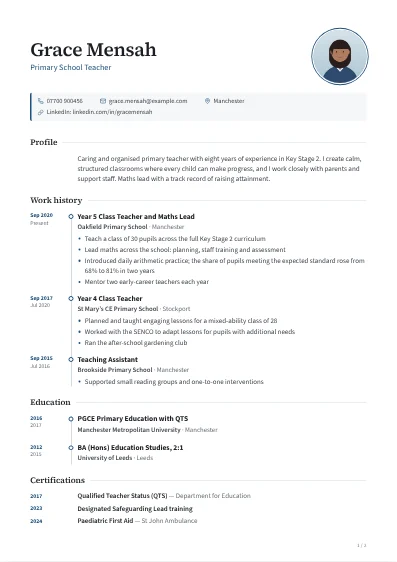
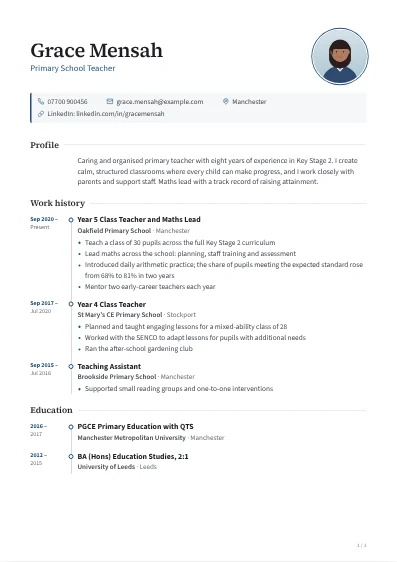
fix: template review — PDF reading order, clickable links, larger text, full-width continuation pages
Claude-Session: https://claude.ai/code/session_01L77Rmev6oLepa9gLETUpxP

diff --git a/src/modules/templates/paginate/runtime-source.ts b/src/modules/templates/paginate/runtime-source.ts
@@ -11,20 +11,25 @@
  * planPages(blocks, capacity) → { pages: number[][], overflow: number[] }
  * blocks: [{ height, keep: 'none' | 'with-next' | 'together' }]; capacity(pageIndex) → px.
  */
-export const PLAN_PAGES_JS = String.raw`function planPages(blocks, capacity) {
+export const PLAN_PAGES_JS = String.raw`function planPages(blocks, capacity, wideFrom) {
   var EPS = 0.5;
   var pages = [[]];
   var overflow = [];
   var used = 0;
   var i = 0;
+  // Pages from wideFrom on are full width (no side column): blocks may be shorter there.
+  function h(k, p) {
+    var b = blocks[k];
+    return wideFrom !== undefined && p >= wideFrom && b.wide != null ? b.wide : b.height;
+  }
   while (i < blocks.length) {
+    var page = pages.length - 1;
     var j = i;
-    var groupHeight = blocks[i].height;
+    var groupHeight = h(i, page);
     while (blocks[j].keep === 'with-next' && j + 1 < blocks.length) {
       j++;
-      groupHeight += blocks[j].height;
+      groupHeight += h(j, page);
     }
-    var page = pages.length - 1;
     var cap = capacity(page);
     var k;
     if (used + groupHeight <= cap + EPS) {
@@ -33,24 +38,24 @@ export const PLAN_PAGES_JS = String.raw`function planPages(blocks, capacity) {
       i = j + 1;
     } else if (pages[page].length === 0) {
       for (k = i; k <= j; k++) {
-        var h = blocks[k].height;
-        // A keep-with-next block (a heading) only goes where its successor fits too.
         var last = pages.length - 1;
-        var need = h;
-        if (blocks[k].keep === 'with-next' && k + 1 <= j && h + blocks[k + 1].height <= capacity(last + 1) + EPS) {
-          need = h + blocks[k + 1].height;
+        var hk = h(k, last);
+        var need = hk;
+        if (blocks[k].keep === 'with-next' && k + 1 <= j && h(k, last + 1) + h(k + 1, last + 1) <= capacity(last + 1) + EPS) {
+          need = hk + h(k + 1, last);
         }
         if (pages[last].length > 0 && used + need > capacity(last) + EPS) {
           pages.push([]);
           used = 0;
         } else if (pages[last].length === 0 && need > capacity(last) + EPS && need <= capacity(last + 1) + EPS) {
-          // Fits on a fuller page (e.g. page 1 is shorter because of the header): leave this one.
           pages.push([]);
           used = 0;
         }
-        if (h > capacity(pages.length - 1) + EPS) overflow.push(k);
-        pages[pages.length - 1].push(k);
-        used += h;
+        last = pages.length - 1;
+        hk = h(k, last);
+        if (hk > capacity(last) + EPS) overflow.push(k);
+        pages[last].push(k);
+        used += hk;
       }
       i = j + 1;
     } else {
@@ -145,15 +150,38 @@ export const RUNTIME_JS = String.raw`(function (planPages) {
     var capAside1 = p1.aside ? p1.aside.clientHeight : 0;
     var capAsideN = p2.aside ? p2.aside.clientHeight : 0;
 
-    var mainPlan = planPages(measureFlow(mainBlocks, p2.main), function (p) { return p === 0 ? capMain1 : capMainN; });
+    // Side column first: it decides from which page on the main column can use the full width.
     var asidePlan = hasAside
       ? planPages(measureFlow(asideBlocks, p2.aside), function (p) { return p === 0 ? capAside1 : capAsideN; })
       : { pages: [[]], overflow: [] };
+    var wideFrom;
+    var capMainWide = capMainN;
+    var mainMeasure;
+    if (hasAside) {
+      wideFrom = asidePlan.pages.length;
+      var p3 = makePage(false, false);
+      p3.page.className += ' cv-page--wide';
+      if (running) p3.top.appendChild(running.cloneNode(true));
+      measure.appendChild(p3.page);
+      capMainWide = p3.main.clientHeight;
+      var wide = measureFlow(mainBlocks, p3.main);
+      mainMeasure = measureFlow(mainBlocks, p2.main);
+      for (var q = 0; q < mainMeasure.length; q++) mainMeasure[q].wide = wide[q].height;
+    } else {
+      mainMeasure = measureFlow(mainBlocks, p2.main);
+    }
+    var mainPlan = planPages(
+      mainMeasure,
+      function (p) { return p === 0 ? capMain1 : wideFrom !== undefined && p >= wideFrom ? capMainWide : capMainN; },
+      wideFrom
+    );
 
     var total = Math.max(mainPlan.pages.length, asidePlan.pages.length);
     target.removeChild(measure);
     for (var p = 0; p < total; p++) {
-      var pg = makePage(p === 0, hasAside);
+      var isWide = hasAside && p > 0 && p >= wideFrom;
+      var pg = makePage(p === 0, hasAside && !isWide);
+      if (isWide) pg.page.className += ' cv-page--wide';
       if (p === 0 && header) pg.top.appendChild(header);
       else if (p > 0 && running) pg.top.appendChild(running.cloneNode(true));
       var mi = mainPlan.pages[p] || [];
@@ -187,6 +215,7 @@ export const RUNTIME_JS = String.raw`(function (planPages) {
 
   document.addEventListener('click', function (ev) {
     var t = ev.target;
+    if (t && t.closest && t.closest('a')) ev.preventDefault();
     var ref = t && t.closest ? t.closest('[data-ref]') : null;
     if (ref && window.parent !== window) {
       window.parent.postMessage({ type: 'cv:select', ref: ref.getAttribute('data-ref') }, '*');

diff --git a/e2e/templates.spec.ts b/e2e/templates.spec.ts
@@ -89,7 +89,7 @@ test.describe('template engine parity (desktop only)', () => {
 
 test('Designs page renders all three templates with real content', async ({ page }) => {
   await page.goto('/templates');
-  const frames = page.locator('iframe[title*="design with an example"]:not([aria-hidden])');
+  const frames = page.locator('iframe[title*="design with an example"][data-active]');
   await expect(frames).toHaveCount(TEMPLATE_IDS.length);
   for (let i = 0; i < TEMPLATE_IDS.length; i++) {
     await expect(frames.nth(i).contentFrame().locator('html[data-cv-ready]')).toHaveCount(1);
@@ -113,4 +113,28 @@ test('health endpoint reports Chromium', async ({ request }) => {
   const res = await request.get('/api/health');
   expect(res.status()).toBe(200);
   expect((await res.json()).checks.chromium).toBe('ok');
+});
+
+test.describe('PDF text order and links (desktop only)', () => {
+  test.skip(({ isMobile }) => isMobile || !hasPoppler, 'Needs poppler; runs once');
+  for (const templateId of TEMPLATE_IDS) {
+    test(`${templateId}: bullets extract directly under their job, contacts are links`, async ({
+      request,
+    }) => {
+      const doc = structuredClone(FIXTURES.driver);
+      doc.design = { ...doc.design, templateId: templateId as never };
+      const res = await request.post('/api/pdf', { data: { document: doc } });
+      const pdf = Buffer.from(await res.body());
+      const raw = pdfTool('pdftotext', pdf, ['-raw']).replace(/\s+/g, ' ');
+      const firstBullet = raw.indexOf('Deliver around 120 parcels');
+      const secondJob = raw.indexOf('Courier Driver');
+      const education = raw.indexOf('GCSEs including English');
+      expect(firstBullet, 'first bullet present').toBeGreaterThan(-1);
+      expect(firstBullet, 'bullet comes before the next job').toBeLessThan(secondJob);
+      expect(secondJob, 'work history comes before education').toBeLessThan(education);
+      const body = pdf.toString('latin1');
+      expect(body).toMatch(/\/URI\s*\(mailto:imran\.qureshi@example\.com\)/);
+      expect(body).toMatch(/\/URI\s*\(tel:07700900123\)/);
+    });
+  }
 });

diff --git a/src/modules/templates/library/halo.tsx b/src/modules/templates/library/halo.tsx
@@ -73,14 +73,14 @@ function Header({ model }: TemplateComponentProps) {
 const css = `
 :root{--aside-w:31%;--gutter:8mm}
 .ha-header{display:flex;flex-direction:column;align-items:center;text-align:center;padding-bottom:2mm}
-.ha-portrait{width:30mm;height:30mm;border-radius:50%;margin-bottom:4.5mm;box-shadow:0 0 0 2.6pt #fff,0 0 0 3.5pt var(--accent),0 0 0 6pt #fff,0 0 0 6.6pt var(--accent-line)}
+.ha-portrait{width:25mm;height:25mm;border-radius:50%;margin-bottom:3.5mm;box-shadow:0 0 0 2.6pt #fff,0 0 0 3.5pt var(--accent),0 0 0 6pt #fff,0 0 0 6.6pt var(--accent-line)}
 .cv-portrait--initials.ha-portrait{background:var(--accent-soft);color:var(--accent);font-family:var(--font-heading);font-weight:var(--heading-weight);font-size:24pt;letter-spacing:.04em}
 .ha-name{font-family:var(--font-heading);font-weight:var(--heading-weight);font-size:2.7em;line-height:1.08;letter-spacing:.005em;color:var(--ink)}
 .ha-headline{margin-top:.5em;font-size:.86em;font-weight:700;letter-spacing:.24em;text-transform:uppercase;color:var(--accent)}
-.ha-header .cv-contacts-wrap{margin-top:4mm}
-.ha-header .cv-contacts{justify-content:center;margin-left:0;column-gap:1.4em;row-gap:.3em;font-size:.92em;color:var(--ink-2)}
+.ha-header .cv-contacts-wrap{margin-top:3mm}
+.ha-header .cv-contacts{justify-content:center;margin-left:0;column-gap:1.4em;row-gap:.3em;font-size:.96em;color:var(--ink-2)}
 .ha-header .cv-contact{padding-left:0}
-.ha-ornament{display:flex;justify-content:center;align-items:center;gap:6pt;margin-top:5mm;width:100%}
+.ha-ornament{display:flex;justify-content:center;align-items:center;gap:6pt;margin-top:3.5mm;width:100%}
 .ha-ornament::before,.ha-ornament::after{content:'';flex:1;height:.6pt;background:var(--accent-line)}
 .ha-ornament span{width:5pt;height:5pt;transform:rotate(45deg);background:var(--accent)}
 .cv-top--running{padding-bottom:3mm}

diff --git a/src/modules/templates/render-model.ts b/src/modules/templates/render-model.ts
@@ -10,6 +10,8 @@ export type Contact = {
   kind: 'phone' | 'email' | 'location' | 'link';
   text: string;
   label?: string;
+  /** Link target for PDFs (tel:, mailto:, https:). */
+  href?: string;
 };
 
 export type REntry = {
@@ -128,18 +130,36 @@ function entriesOf(section: Section, locale: string): REntry[] {
   }
 }
 
+/** Only http(s) links are made clickable; anything else stays plain text. */
+function toHref(url: string): string | undefined {
+  const u = clean(url);
+  const withScheme = /^[a-z][a-z0-9+.-]*:/i.test(u) ? u : `https://${u}`;
+  return /^https?:\/\/[^\s]+\.[^\s]+/i.test(withScheme) ? withScheme : undefined;
+}
+
 const hasContent = (e: REntry) =>
   Boolean(e.title || e.subtitle || e.bullets.length || e.tags.length || e.label);
 
 export function toRenderModel(doc: ResumeDocument): RenderModel {
   const b = doc.basics;
   const contacts: Contact[] = [];
-  if (clean(b.phone)) contacts.push({ kind: 'phone', text: clean(b.phone) });
-  if (clean(b.email)) contacts.push({ kind: 'email', text: clean(b.email) });
+  if (clean(b.phone))
+    contacts.push({
+      kind: 'phone',
+      text: clean(b.phone),
+      href: `tel:${clean(b.phone).replace(/[^\d+]/g, '')}`,
+    });
+  if (clean(b.email))
+    contacts.push({ kind: 'email', text: clean(b.email), href: `mailto:${clean(b.email)}` });
   if (clean(b.location)) contacts.push({ kind: 'location', text: clean(b.location) });
   for (const l of b.links)
     if (clean(l.url))
-      contacts.push({ kind: 'link', text: displayUrl(l.url), label: clean(l.label) });
+      contacts.push({
+        kind: 'link',
+        text: displayUrl(l.url),
+        label: clean(l.label),
+        href: toHref(l.url),
+      });
 
   const sections: RSection[] = [];
   if (clean(b.summary))

diff --git a/src/modules/templates/library/meridian.tsx b/src/modules/templates/library/meridian.tsx
@@ -76,12 +76,13 @@ function Header({ model }: TemplateComponentProps) {
 const css = `
 :root{--aside-w:31%;--gutter:7mm}
 .cv-top--header{margin:calc(-1 * var(--margin)) calc(-1 * var(--margin)) 0;position:relative;z-index:1}
-.m-header{position:relative;display:flex;align-items:center;justify-content:space-between;gap:8mm;background:linear-gradient(100deg,var(--accent-deep),var(--accent));color:#fff;padding:calc(var(--margin) * 0.95) var(--margin) calc(var(--margin) * 0.75 + 6mm);clip-path:polygon(0 0,100% 0,100% calc(100% - 6mm),0 100%)}
+.m-header{position:relative;display:flex;align-items:center;justify-content:space-between;gap:8mm;background:linear-gradient(100deg,var(--accent-deep),var(--accent));color:#fff;padding:calc(var(--margin) * 0.8) var(--margin) calc(var(--margin) * 0.6 + 5mm);clip-path:polygon(0 0,100% 0,100% calc(100% - 5mm),0 100%)}
+.cv-page--wide::before{display:none}
 .m-id{min-width:0;flex:1}
-.m-portrait{width:29mm;height:29mm;border-radius:50%;border:2.4pt solid rgba(255,255,255,.9)}
+.m-portrait{width:26mm;height:26mm;border-radius:50%;border:2.4pt solid rgba(255,255,255,.9)}
 .m-name{font-family:var(--font-heading);font-weight:var(--heading-weight);font-size:2.6em;line-height:1.06;letter-spacing:-.01em}
 .m-headline{margin-top:.28em;font-size:1.16em;font-weight:500;opacity:.92}
-.m-header .cv-contacts{margin-top:.8em;font-size:.92em;color:rgba(255,255,255,.9)}
+.m-header .cv-contacts{margin-top:.7em;font-size:.97em;color:rgba(255,255,255,.9)}
 .m-header .cv-sep{color:rgba(255,255,255,.45)}
 .m-header .cv-contacts-wrap{overflow:hidden}
 .cv-top--running{padding-bottom:4pt}

diff --git a/src/modules/templates/library/atelier.tsx b/src/modules/templates/library/atelier.tsx
@@ -74,15 +74,17 @@ function Header({ model }: TemplateComponentProps) {
 }
 
 const css = `
-:root{--side-w:56mm;--side-pad:7mm;--gap:9mm}
+:root{--side-w:50mm;--side-pad:6mm;--gap:8mm}
+.cv-page--wide::before{display:none}
+.cv-page--wide .a-running{margin-left:0}
 .cv-page::before{content:'';position:absolute;top:0;bottom:0;left:0;width:calc(var(--margin) + var(--side-w) + var(--side-pad));background:var(--accent-deep)}
 .cv-body{flex-direction:row-reverse}
-.cv-aside{width:var(--side-w);color:#fff;font-size:.93em}
+.cv-aside{width:var(--side-w);color:#fff;font-size:.95em}
 .cv-main{padding-left:calc(var(--side-pad) + var(--gap))}
-.a-header{display:flex;align-items:center;padding-bottom:9mm}
+.a-header{display:flex;align-items:center;padding-bottom:5mm}
 .a-header-side{width:calc(var(--side-w) + var(--side-pad));padding-right:var(--side-pad);display:flex;justify-content:center;flex:none}
 .a-header-main{padding-left:var(--gap);min-width:0;flex:1}
-.a-portrait{width:40mm;height:40mm;border-radius:50%;box-shadow:0 0 0 2.2pt var(--accent-deep),0 0 0 3.4pt rgba(255,255,255,.55)}
+.a-portrait{width:34mm;height:34mm;border-radius:50%;box-shadow:0 0 0 2.2pt var(--accent-deep),0 0 0 3.4pt rgba(255,255,255,.55)}
 .cv-portrait--initials.a-portrait{background:rgba(255,255,255,.1);color:#fff;font-family:var(--font-heading);font-weight:var(--heading-weight);font-size:30pt;letter-spacing:.02em}
 .a-name{font-family:var(--font-heading);font-weight:var(--heading-weight);font-size:2.95em;line-height:1.02;letter-spacing:-.015em;color:var(--ink)}
 .a-name span{display:block}

diff --git a/src/modules/resume/fixtures.ts b/src/modules/resume/fixtures.ts
@@ -473,12 +473,26 @@ export const graduate = build(
   ],
 );
 
-const eng = (n: number) => [
-  `Designed and led delivery of a service handling ${n} million requests a day with 99.95% availability`,
-  'Mentored engineers through code review, pairing and design reviews',
-  'Introduced contract tests between services, cutting integration incidents',
-  'Worked with product and support teams to prioritise reliability work',
-];
+const eng = (n: number) =>
+  ({
+    40: [
+      'Designed and led delivery of a payments service handling 40 million requests a day with 99.95% availability',
+      'Mentored eight engineers through code review, pairing and design reviews',
+      'Introduced contract tests between services, cutting integration incidents by half',
+      'Set up on-call and incident reviews with product and support teams',
+    ],
+    12: [
+      'Owned the dispatch API handling 12 million requests a day',
+      'Reduced p95 latency from 900 ms to 180 ms by redesigning caching and queries',
+      'Ran the hiring loop for backend engineers and onboarded six new starters',
+      'Worked with operations to prioritise reliability work over new features during peak season',
+    ],
+    2: [
+      'Built the reconciliation service that matched 2 million ledger entries a day',
+      'Replaced nightly batch jobs with event-driven processing, cutting delays from hours to minutes',
+      'Wrote the team’s first testing guidelines and raised coverage on core modules',
+    ],
+  })[n] ?? [];
 
 export const engineer = build(
   'engineer',

diff --git a/src/modules/templates/library/heritage.tsx b/src/modules/templates/library/heritage.tsx
@@ -73,7 +73,7 @@ const css = `
 .h-headline{margin-top:.45em;font-size:.88em;letter-spacing:.24em;text-transform:uppercase;color:var(--accent);font-weight:600}
 .h-header .cv-contact:first-child{padding-left:0}
 .h-header .cv-contact:first-child .cv-sep{display:none}
-.h-header .cv-contacts{justify-content:center;margin-left:0;margin-top:.9em;font-size:.92em;color:var(--ink-2)}
+.h-header .cv-contacts{justify-content:center;margin-left:0;margin-top:.9em;font-size:.97em;color:var(--ink-2)}
 .h-header .cv-sep{color:var(--accent-line)}
 .cv-top--running{padding-bottom:4pt}
 .h-running{text-align:center;font-family:var(--font-heading);font-weight:var(--heading-weight);font-size:1.1em;letter-spacing:.04em;color:var(--ink-2);border-bottom:.5pt solid var(--accent-line);padding-bottom:4pt}
@@ -93,10 +93,10 @@ const css = `
 .cv-bullets{color:var(--ink-2)}
 .cv-bullets li+li{margin-top:2pt}
 .cv-bullets li::before{border-radius:0;transform:rotate(45deg);width:.28em;height:.28em}
-.h-summary{color:var(--ink-2);text-align:center;padding:0 4%;font-size:1.03em}
+.h-summary{color:var(--ink-2);font-size:1.03em}
 .h-strong{font-weight:600;color:var(--ink)}
 .h-muted{color:var(--ink-3)}
-.h-skills{color:var(--ink-2);text-align:center}
+.h-skills{color:var(--ink-2);text-align:center;text-wrap:balance}
 `;
 
 export const heritage: TemplateDefinition = {

diff --git a/src/features/preview/document-preview.tsx b/src/features/preview/document-preview.tsx
@@ -20,6 +20,8 @@ type Props = {
   onSelect?: (ref: string) => void;
   className?: string;
   title?: string;
+  /** Illustration only (gallery, thumbnails): hidden from assistive tech and not focusable. */
+  decorative?: boolean;
 };
 
 const GAP = 24;
@@ -37,6 +39,7 @@ export function DocumentPreview({
   onSelect,
   className,
   title = 'CV preview',
+  decorative = false,
 }: Props) {
   const wrapRef = useRef<HTMLDivElement>(null);
   const frames = useRef<(HTMLIFrameElement | null)[]>([null, null]);
@@ -127,8 +130,10 @@ export function DocumentPreview({
                 frames.current[i] = el;
               }}
               title={i === active ? title : `${title} (updating)`}
-              aria-hidden={i === active ? undefined : true}
-              tabIndex={i === active ? 0 : -1}
+              aria-hidden={i === active && !decorative ? undefined : true}
+              tabIndex={i === active && !decorative ? 0 : -1}
+              inert={decorative || i !== active ? true : undefined}
+              data-active={i === active ? '' : undefined}
               sandbox="allow-scripts"
               srcDoc={src}
               className="absolute top-0 left-0 origin-top-left border-0 bg-transparent"

diff --git a/src/modules/templates/library/chronicle.tsx b/src/modules/templates/library/chronicle.tsx
@@ -26,7 +26,7 @@ const hooks: TemplateHooks = {
       <div className="ch-entry-head">
         {e.dates && (
           <p className="ch-when">
-            <span>{from}</span>
+            <span>{to ? `${from} –` : from}</span>
             {to && <span className="ch-to">{to}</span>}
           </p>
         )}
@@ -98,7 +98,7 @@ const css = `
 .ch-headline{margin-top:.3em;font-size:1.18em;font-weight:500;color:var(--accent)}
 .ch-portrait{width:28mm;height:28mm;border-radius:50%;box-shadow:0 0 0 2pt #fff,0 0 0 3.2pt var(--accent)}
 .ch-contact-bar{margin-top:5mm;background:var(--accent-tint);border-radius:3pt;padding:6pt 9pt;border-left:2.5pt solid var(--accent)}
-.ch-contact-bar .cv-contacts{column-gap:0;row-gap:.3em;font-size:.92em;color:var(--ink-2)}
+.ch-contact-bar .cv-contacts{column-gap:0;row-gap:.3em;font-size:.97em;color:var(--ink-2)}
 .ch-contact-bar .cv-contact{padding-right:1.3em}
 .cv-top--running{padding-bottom:3mm}
 .ch-running{display:flex;justify-content:space-between;align-items:baseline;border-bottom:.6pt solid var(--accent-line);padding-bottom:3pt;font-size:.85em;color:var(--ink-3)}

diff --git a/src/modules/templates/base-css.ts b/src/modules/templates/base-css.ts
@@ -33,7 +33,15 @@ ul{list-style:none}
 .cv-body{flex:1 1 auto;min-height:0;display:flex;align-items:stretch}
 .cv-main{flex:1 1 auto;min-width:0;overflow:hidden}
 .cv-aside{flex:none;overflow:hidden}
-[data-block]{display:flow-root}
+/* Continuation pages without side-column content use the full width. */
+.cv-page.cv-page--wide .cv-main{padding-left:0;padding-right:0;border:0}
+/* Every block is positioned so Chrome paints (and PDF text extraction reads) blocks strictly in
+   document order. Without this, positioned children (e.g. bullet items) were painted after all
+   in-flow text, so extracted text listed every bullet after the last section. */
+[data-block]{display:flow-root;position:relative}
+a{color:inherit;text-decoration:none}
+p,li{text-wrap:pretty}
+h1,h2,h3{text-wrap:balance}
 .cv-foot{position:absolute;right:var(--margin);bottom:calc(var(--margin) * 0.42);font-size:7.5pt;
   color:var(--ink-3);letter-spacing:.04em;font-variant-numeric:tabular-nums}
 .cv-bullets li{position:relative;padding-left:1.05em}

diff --git a/src/modules/templates/library/vivid.tsx b/src/modules/templates/library/vivid.tsx
@@ -115,7 +115,7 @@ const css = `
 .v-portrait{position:absolute;right:var(--margin);top:calc(46mm - var(--photo) * 0.62);width:var(--photo);height:var(--photo);border-radius:50%;border:3.2pt solid #fff;box-shadow:0 3pt 10pt rgba(0,0,0,.18);background:var(--accent-soft)}
 .cv-portrait--initials.v-portrait{color:var(--accent);font-family:var(--font-heading);font-weight:800;font-size:27pt;letter-spacing:-.01em}
 .v-contacts{padding:4.5mm calc(var(--margin) + var(--photo) + 6mm) 0 var(--margin);min-height:calc(var(--photo) * 0.38 + 2mm)}
-.v-contacts .cv-contacts{column-gap:0;row-gap:.35em;font-size:.93em;color:var(--ink-2)}
+.v-contacts .cv-contacts{column-gap:0;row-gap:.35em;font-size:.97em;color:var(--ink-2)}
 .v-contacts .cv-contact{padding-right:1.3em}
 html[data-photo="0"] .v-portrait:not(.cv-portrait--initials){display:none}
 .cv-page--rest::before{content:'';position:absolute;left:0;right:0;top:0;height:5pt;background:linear-gradient(90deg,var(--accent-deep),var(--accent))}
